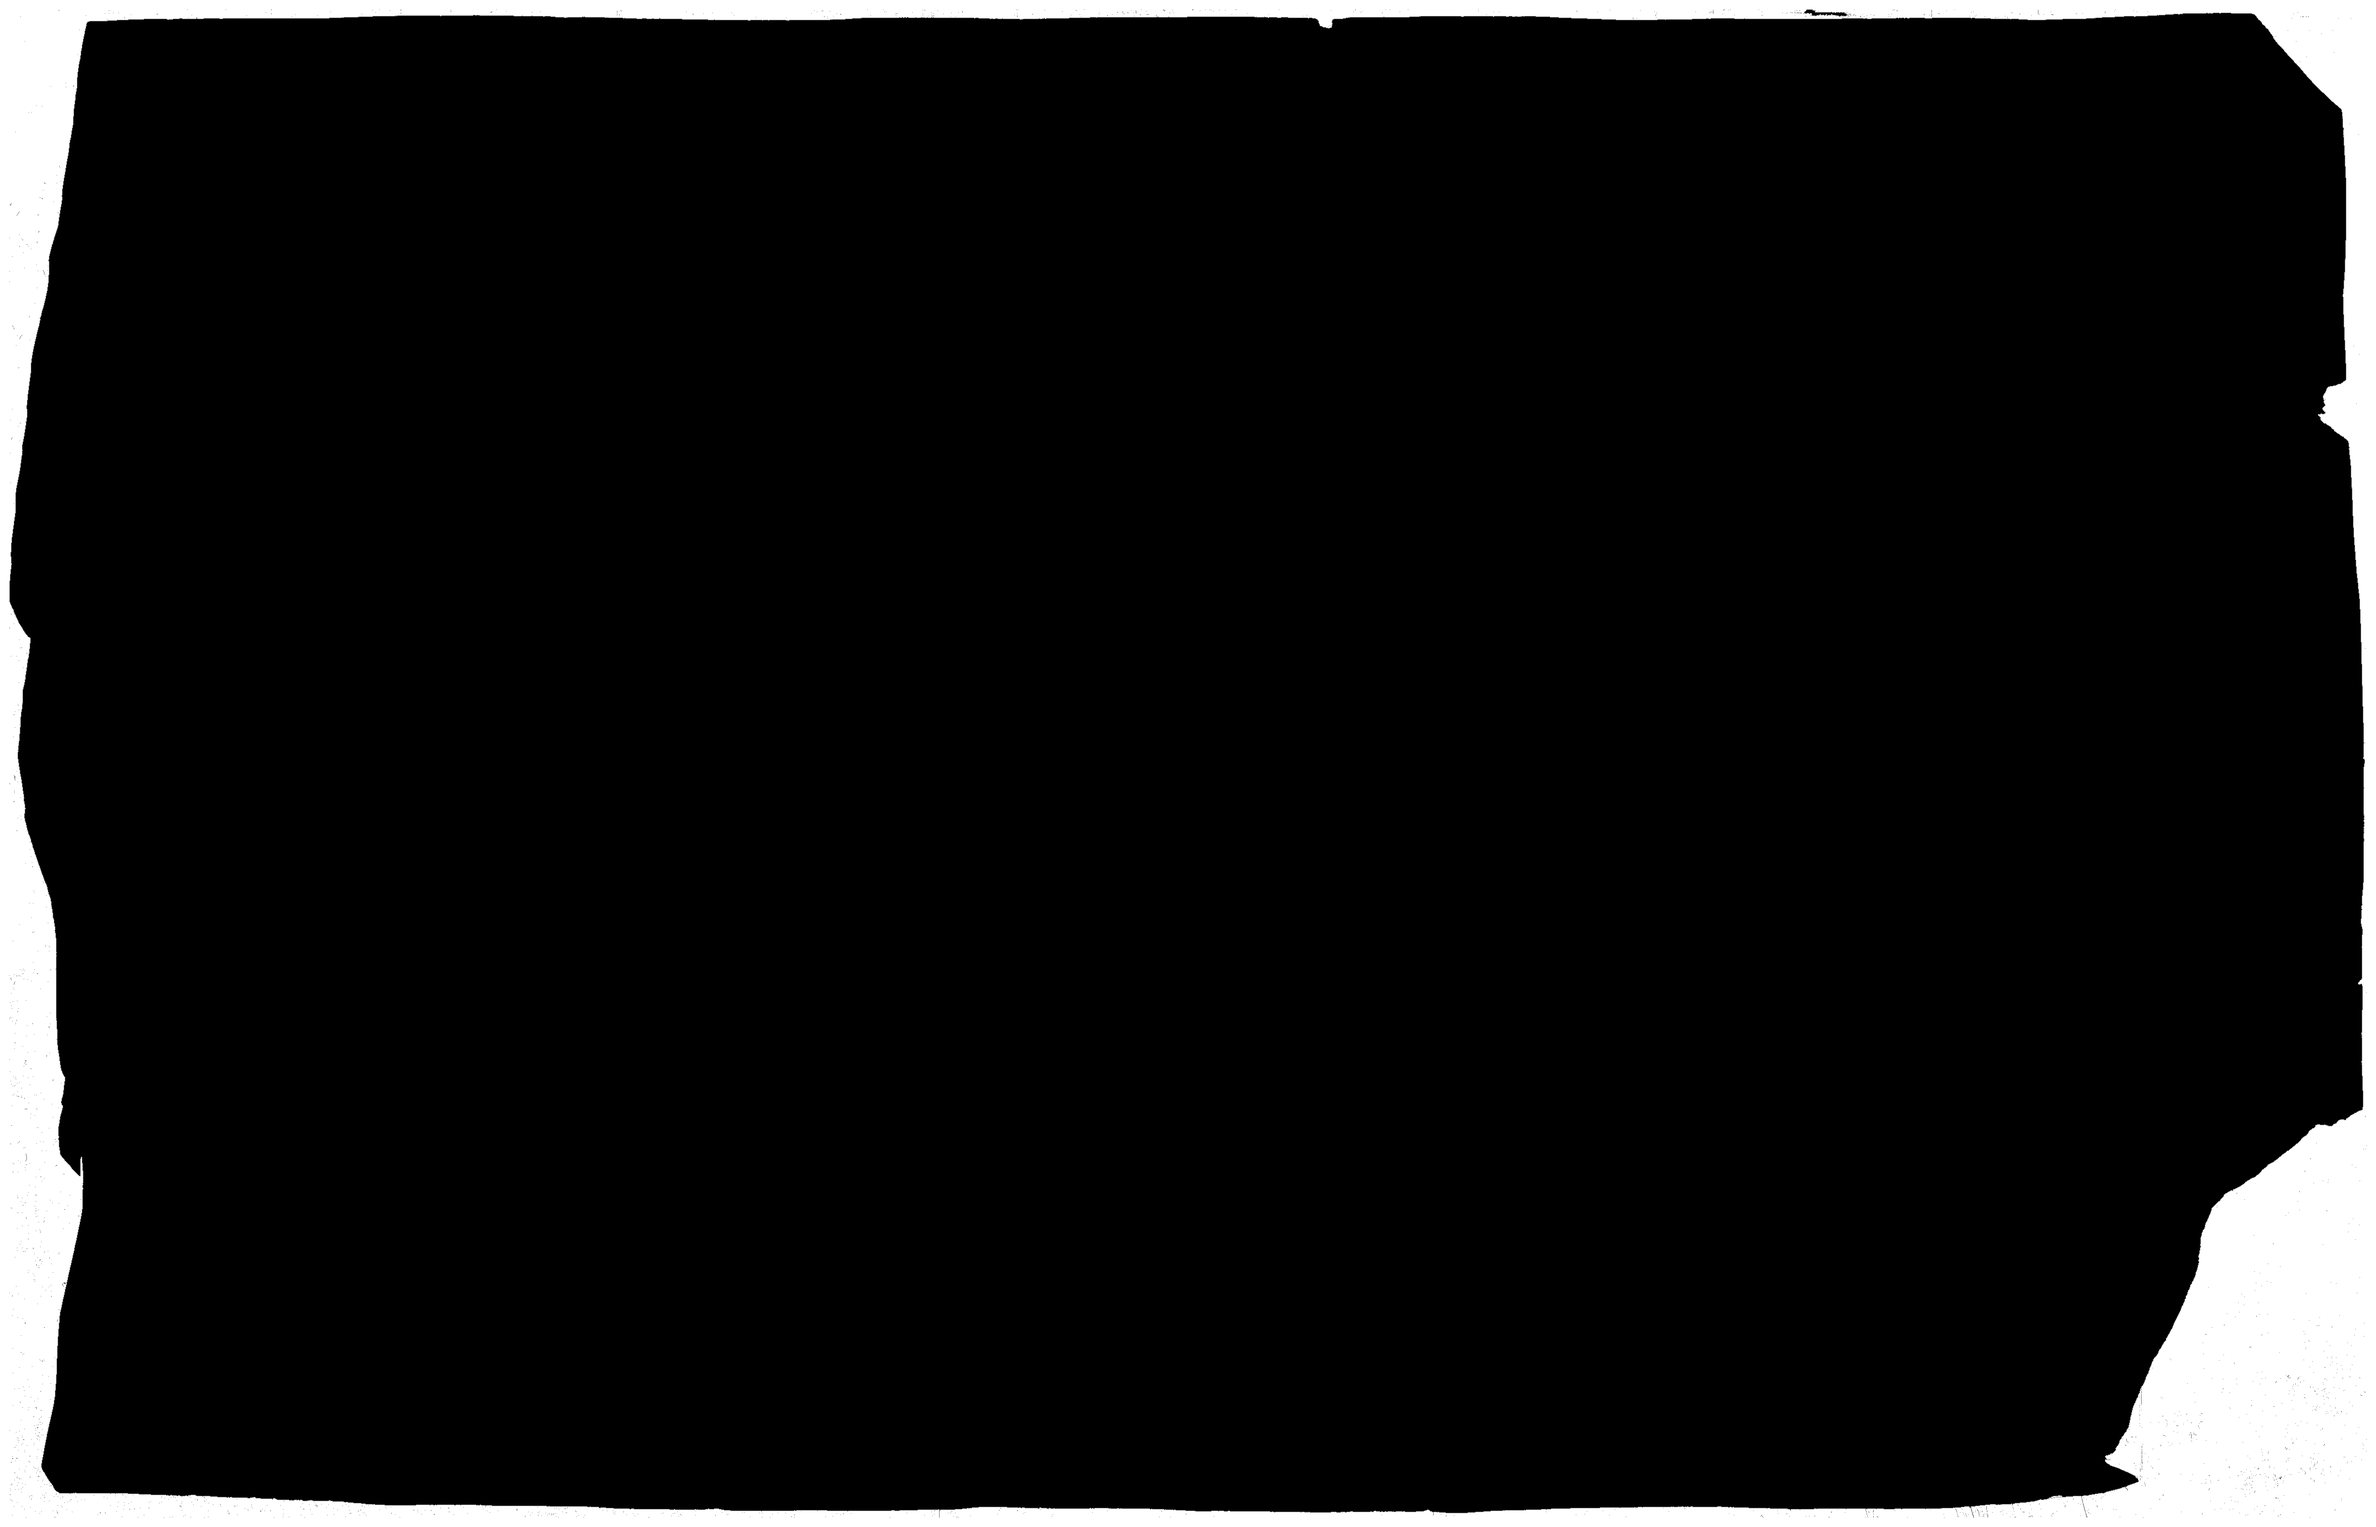
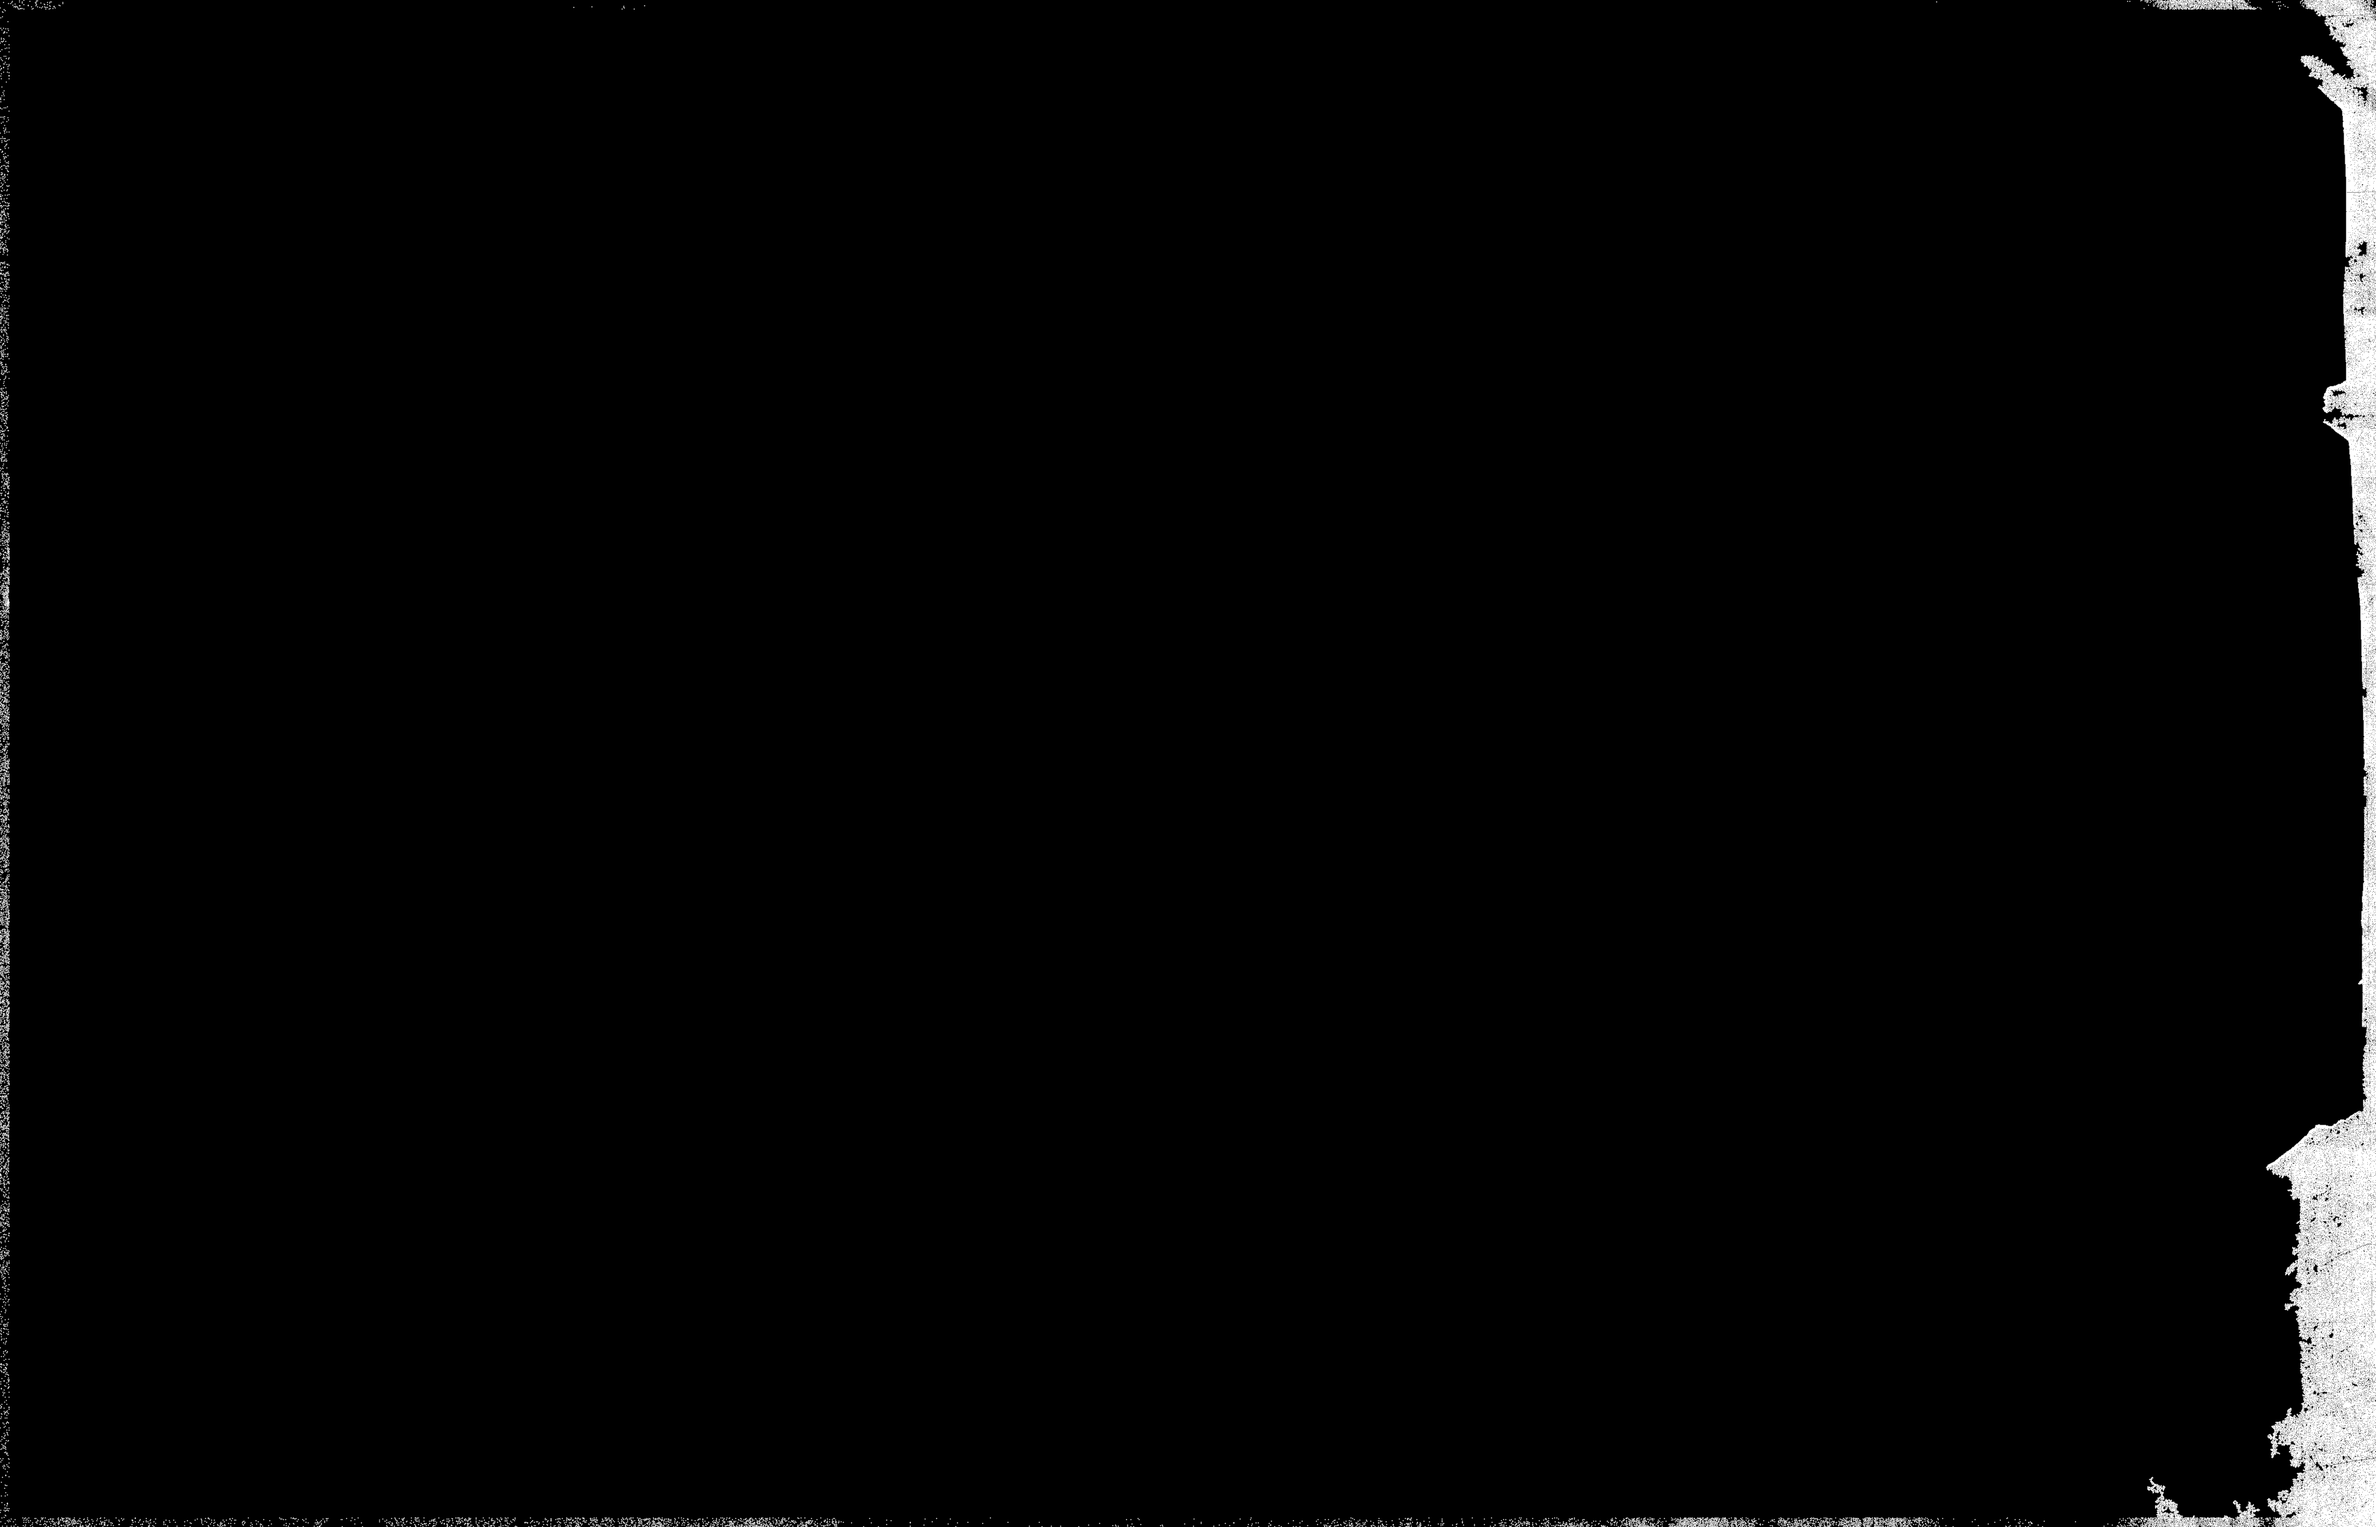
feat(overlay): the Panades 1557 chart as a sheet; masks key only the scanner's background
- Banet Panades, Messina 1557 (Galata Museo del Mare, Genoa): a handheld museum
  photograph, north up but lying 11.5 degrees off level, so it is laid by a
  similarity with its turn (`turned: true`): seven landmarks, 23 km RMS (73 km held
  level). A sources.json pin, a catalogue entry (status ship, CC BY-SA 4.0 with its
  credit), a Charts drawer row, a sheet render, a README section and ASSETS.md.
- paperMask keyed the pale skin of a dark-scanned chart (the light test flooded in
  through it) and the outermost band whatever it held. A dark scan now keys only
  near-black, and the band only where it is background, so a skin that runs to the
  scan's edge stays whole. Olives's lower edge is kept (18.8 to 16.7 percent keyed);
  Oliva's mask drops from 7.2 to 1.4 percent; Lopes is unchanged. A mask under 0.1
  percent keyed is not written (the Panades photo has no background).

Changed region(s): [[0.0, 0.0, 1.0, 1.0], [0.9667, 0.2473, 1.0, 0.7419]]

diff --git a/public/page.js b/public/page.js
@@ -1696,6 +1696,7 @@ const CHARTS = [
   ['Oliva family, Mediterranean', '1621–1665', at(16.73, 36.74, 3.7), ['Messina', port(15.55, 38.19)], null, 'oliva-mediterranean'], // a member of the Oliva family of chartmakers, Messina the usual attribution (Commons dates it between 1621 and 1665)
   ['Sebastião Lopes, Atlantic', 'c. 1565', at(-13.6, 36.76, 3.3), ['Lisbon', port(-9.14, 38.72)], null, 'lopes-atlantic'], // a chart of the Atlantic coasts, British Isles to the Gambia (Newberry Library)
   ['Bartolomé Olives, central and western Mediterranean', '1559', at(5.47, 40.35, 3.6), ['Venice', port(12.33, 45.44)], null, 'olives-1559'], // drawn south up, made at Venice (Bodleian Libraries, MS. Canon. Ital. 143)
+  ['Banet Panades, Mediterranean', '1557', at(12.5, 40.5, 4.2), ['Messina', port(15.55, 38.19)], null, 'panades-1557'], // made at Messina (Galata Museo del Mare, Genoa), photographed by hand
   ['De Bry, Virginia', '1590', at(-76, 36.28, 7.47), ['Frankfurt', port(8.68, 50.11)]], // de Bry's America, part I, printed at Frankfurt am Main
 ].map(([name, year, v, [city, made], text, overlay = null]) => ({ name, year, view: { ...v, title: name }, made: { ...made, title: city }, text, overlay }));
 const places = []; // every anchorage and point of interest: { name, view }

diff --git a/ASSETS.md b/ASSETS.md
@@ -62,6 +62,7 @@ Generated by `npm run packs` from `scripts/sources.json`; edit the manifest, not
[7 lines of base64/hex data omitted]

diff --git a/docs/overlay/README.md b/docs/overlay/README.md
@@ -256,7 +256,7 @@ the build's `CHARTS`.
 Nothing marks a note on the scan. Over a noted figure the cursor turns to a pointer, and a click opens its
 tile. The notes ride on the sheet where it lies, dragged, turned or resized. Juan de la Cosa has notes too.
 
-## Three more by landmarks: the Oliva Mediterranean, Lopes, Olives
+## Four more by landmarks: the Oliva Mediterranean, Lopes, Olives, Panades
 
 Each is laid level by landmarks read off the scan by eye, as above (`levelFit`; the numbers below are each landmark's miss, in km, against today's place, after the least-squares scale and centre).
 
@@ -275,4 +275,15 @@ Each is laid level by landmarks read off the scan by eye, as above (`levelFit`; 
 
 ![Olives's 1559 sheet over the map, turned north up](olives-1559-sheet.jpg)
 
-`npm run overlays -- --only oliva-mediterranean,lopes-atlantic,olives-1559` rebuilds just those and keeps the other rows of overlays.json as they are; an id that is no chart, or no id at all, is an error.
+- **Banet Panades, Messina 1557** (Galata Museo del Mare, Genoa): the central Mediterranean from Corsica and Sardinia to Greece, north up, with roses, flags and town views. The scan is a handheld museum photograph (3008 x 2000 px, Nikon D70s) taken at a slant and lit unevenly: a glare washes out the middle of the sheet and the edges fall into shade, and the sheet lies about 11.5 degrees off level in the frame, so it is laid by a similarity with its turn (`turned: true` on the chart, `similarityFit`) rather than `levelFit`. Seven landmarks (Cap Corse, Bonifacio, Cape Teulada, Marsala, Cape Passero, Messina, Cape Spartivento), 23 km RMS with the turn (6 to 33 km); held level they miss by 73 km RMS, which is the turn's evidence. The frame crops the chart: Iberia and the Levant lie off it, and the photograph has no scanner background, so nothing is keyed. **Rights: CC BY-SA 4.0**, photo by Falcodigiada, Wikimedia Commons. Attribution: "Falcodigiada, Wikimedia Commons, CC BY-SA 4.0". The share-alike holds for what is built from it: `packs/overlays/panades-1557*.jpg` and `.png` and `docs/overlay/panades-1557-sheet.jpg` are CC BY-SA 4.0.
+
+`npm run render -- --view 12.5,40.5,4.2 --overlay panades-1557 --out docs/overlay/panades-1557-sheet.jpg`.
+
+![Panades's 1557 sheet over the map, turned about 11.5 degrees](panades-1557-sheet.jpg)
+
+The scanner mask keys only the scanner's background, never the skin: a scan laid on black (`dark`) keys only pixels near black, and the outermost band is keyed only where it is background, so a skin that runs to the edge of the scan, damaged border and all, stays whole. Olives's lower right corner, before and after (the keyed background is magenta):
+
+![Olives's mask before: pale skin keyed](olives-mask-before.jpg)
+![Olives's mask after: the lower edge kept](olives-mask-after.jpg)
+
+`npm run overlays -- --only oliva-mediterranean,lopes-atlantic,olives-1559,panades-1557` rebuilds just those and keeps the other rows of overlays.json as they are; an id that is no chart, or no id at all, is an error.
